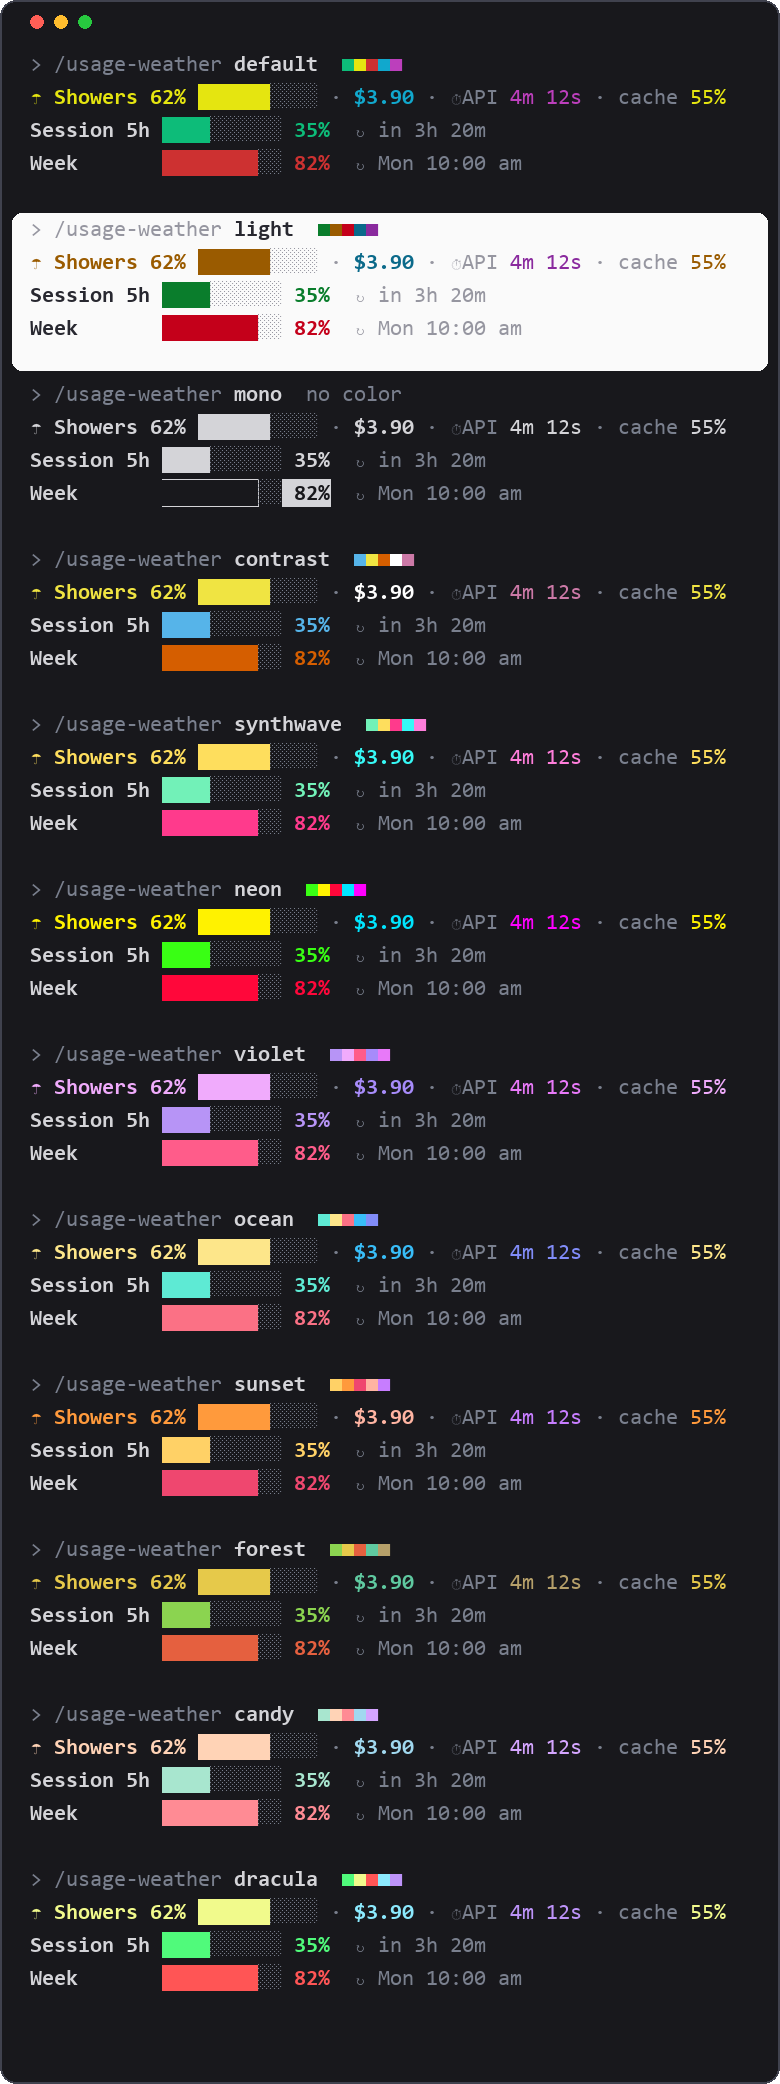
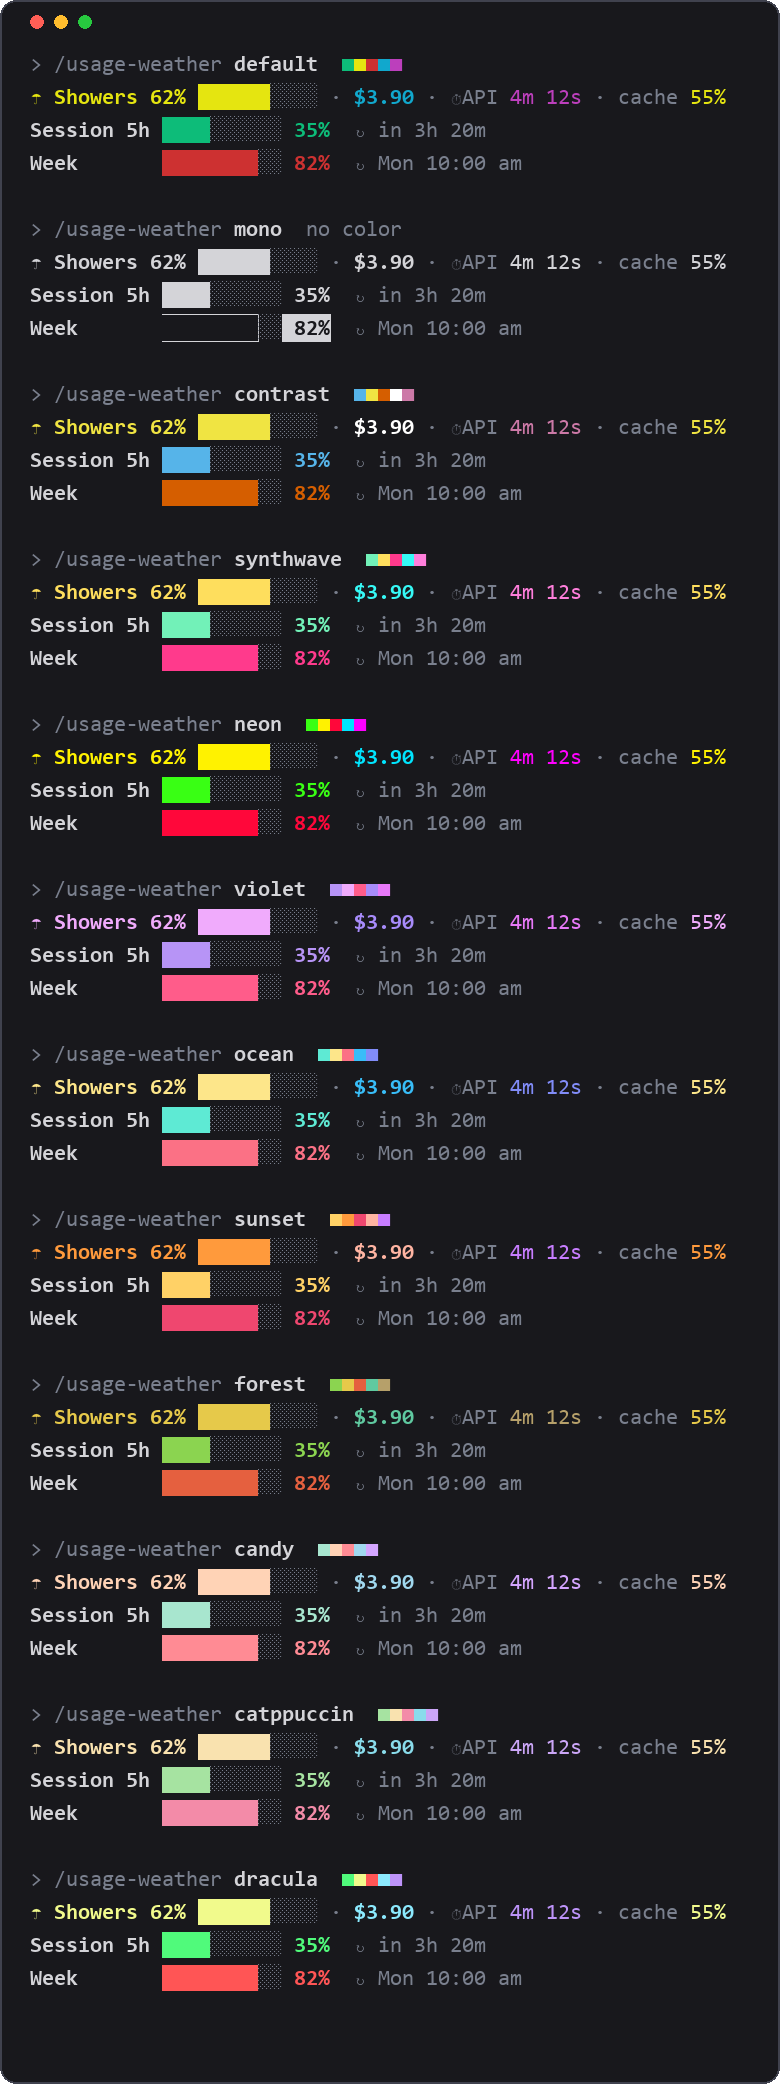
usage-weather: drop light theme, add catppuccin

diff --git a/usage-weather/hooks/register.tsx b/usage-weather/hooks/register.tsx
@@ -450,7 +450,6 @@ const paleta = (ok: string, warn: string, bad: string, costo: string, api: strin
 // The first theme uses the terminal's own ANSI colors, so it follows its palette.
 const TEMAS: Record<Tema, Paleta> = {
   default: paleta('green', 'yellow', 'red', 'cyan', 'magenta'),
-  light: paleta('#0a7d2c', '#9a5b00', '#c4001a', '#0b6a8a', '#8a2a9e', '#666666'),
   mono: {
     ok: {}, warn: { bold: true }, bad: { bold: true, inverse: true }, costo: { bold: true }, api: {}, neutro: {},
   },
@@ -463,6 +462,7 @@ const TEMAS: Record<Tema, Paleta> = {
   sunset: paleta('#ffd166', '#ff9a3c', '#ef476f', '#ffb4a2', '#c77dff', '#a8878a'),
   forest: paleta('#8bd450', '#e6c94a', '#e5603f', '#5fc9a0', '#b6a06a', '#7e8f7a'),
   candy: paleta('#a8e6cf', '#ffd3b6', '#ff8b94', '#a0d8ef', '#d4a5ff', '#b0a8b9'),
+  catppuccin: paleta('#a6e3a1', '#f9e2af', '#f38ba8', '#89dceb', '#cba6f7', '#6c7086'),
   dracula: paleta('#50fa7b', '#f1fa8c', '#ff5555', '#8be9fd', '#bd93f9', '#6272a4'),
 }
 const NOMBRES_TEMAS = Object.keys(TEMAS) as Tema[]

diff --git a/usage-weather/types/index.d.ts b/usage-weather/types/index.d.ts
@@ -14,8 +14,8 @@ export type Muestra = { resetsAt: string; t: number; pct: number }
 export type Modo = 'completo' | 'mini' | 'oculto'
 export type Idioma = 'es' | 'en' | 'pt' | 'fr' | 'de' | 'zh' | 'ja' | 'ko'
 export type Tema =
-  | 'default' | 'light' | 'mono' | 'contrast' | 'synthwave' | 'neon'
-  | 'violet' | 'ocean' | 'sunset' | 'forest' | 'candy' | 'dracula'
+  | 'default' | 'mono' | 'contrast' | 'synthwave' | 'neon'
+  | 'violet' | 'ocean' | 'sunset' | 'forest' | 'candy' | 'catppuccin' | 'dracula'
 export type Ajustes = { modo: Modo; idioma: Idioma; zona: string; tema: Tema }
 
 declare module 'claude-code' {

diff --git a/usage-weather/hooks/usage-weather.test.ts b/usage-weather/hooks/usage-weather.test.ts
@@ -251,7 +251,7 @@ describe('usage-weather', () => {
     expect(doble).toContain('Language: English')
     expect((await comando($, 'rainbow')).text).toContain('rainbow')
 
-    for (const tema of ['light', 'mono', 'contrast', 'violet', 'ocean', 'sunset', 'forest', 'candy', 'dracula']) {
+    for (const tema of ['mono', 'contrast', 'violet', 'ocean', 'sunset', 'forest', 'candy', 'catppuccin', 'dracula']) {
       await comando($, tema)
       const ui = await dibujar($)
       expect(await ui.find({ type: 'Text', text: '$1.73' })).toBeDefined()

diff --git a/usage-weather/README.es.md b/usage-weather/README.es.md
@@ -68,7 +68,7 @@ Las etiquetas en chino, japonés y coreano se alinean según su ancho real. Espa
 
 ### Temas
 
-12 temas de color, que se guardan como el resto de la configuración: `default` (los colores de tu terminal), `light` (para fondos claros), `mono` (sin color: negrita e inversión), `contrast` (apto para daltonismo), `synthwave`, `neon`, `violet`, `ocean`, `sunset`, `forest`, `candy` y `dracula`. Usan colores de 24 bits; en una terminal que no los soporte se aproximan.
+12 temas de color, que se guardan como el resto de la configuración: `default` (los colores de tu terminal), `mono` (sin color: negrita e inversión), `contrast` (apto para daltonismo), `synthwave`, `neon`, `violet`, `ocean`, `sunset`, `forest`, `candy`, `catppuccin` y `dracula`. Usan colores de 24 bits; en una terminal que no los soporte se aproximan.
 
 ```text
 /usage-weather neon

diff --git a/usage-weather/README.md b/usage-weather/README.md
@@ -75,7 +75,7 @@ Missing yours? A language is one table entry: see [CONTRIBUTING](../CONTRIBUTING
 
 ### Themes
 
-12 color themes, saved like the other settings: `default` (your terminal's own colors), `light` (for light backgrounds), `mono` (no color: weight and inversion), `contrast` (color-blind safe), `synthwave`, `neon`, `violet`, `ocean`, `sunset`, `forest`, `candy`, `dracula`. Themes use 24-bit colors; on a terminal without them the nearest colors are used.
+12 color themes, saved like the other settings: `default` (your terminal's own colors), `mono` (no color: weight and inversion), `contrast` (color-blind safe), `synthwave`, `neon`, `violet`, `ocean`, `sunset`, `forest`, `candy`, `catppuccin`, `dracula`. Themes use 24-bit colors; on a terminal without them the nearest colors are used.
 
 ```text
 /usage-weather neon
